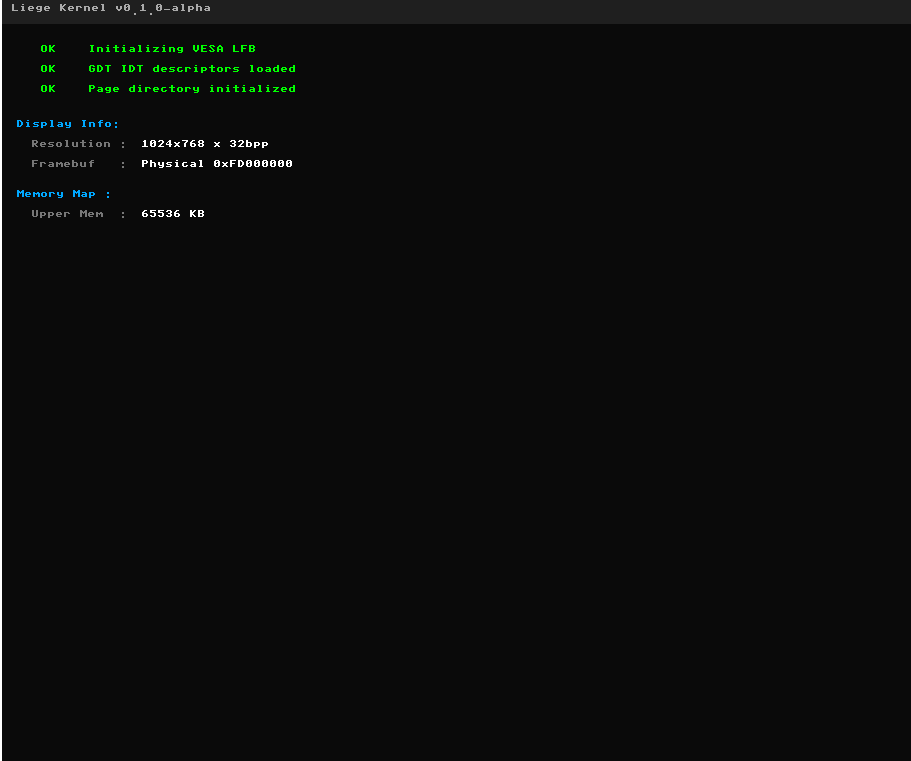
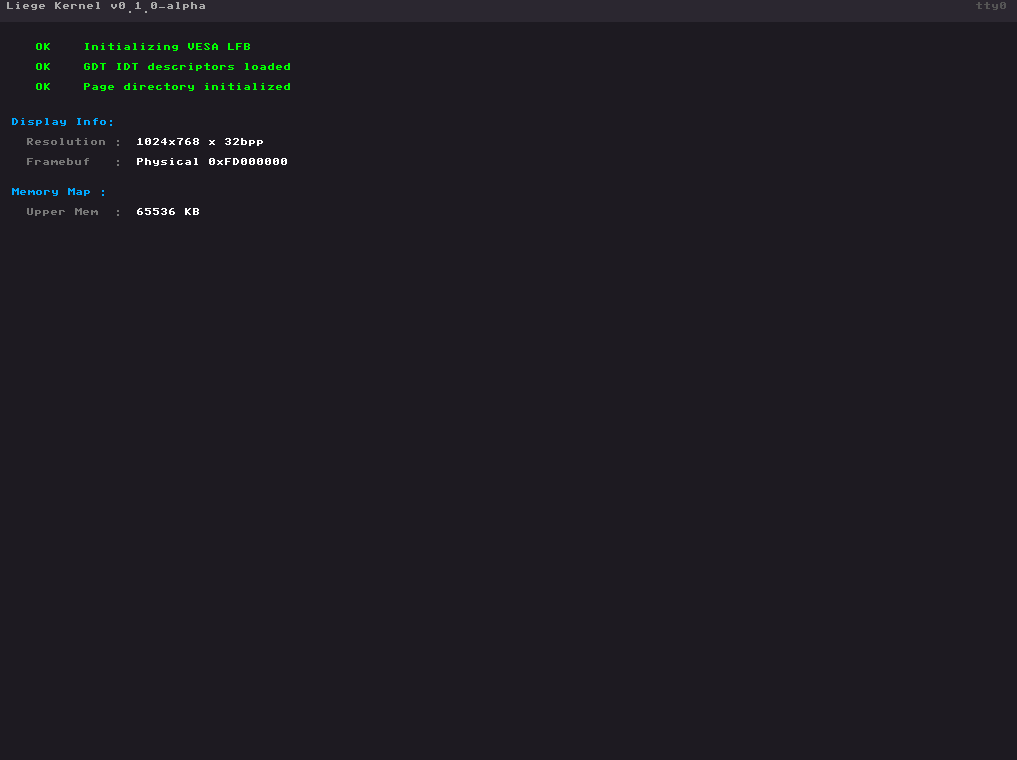
patch

diff --git a/src/kernel/kernel.c b/src/kernel/kernel.c
@@ -66,9 +66,9 @@ void kernel_main(uint32_t magic, uint32_t addr) {
     screen_pitch  = mb->framebuffer_pitch;
     back_buffer   = (uint32_t*)0x800000; 
 
-    draw_rect(0, 0, screen_width, screen_height, 0x0A0A0A); 
+    draw_rect(0, 0, screen_width, screen_height, 0x1d1a21); 
 
-    draw_rect(0, 0, screen_width, 24, 0x1F1F1F);
+    draw_rect(0, 0, screen_width, 24, 0x2b2730);
     draw_string("Liege Kernel v0.1.0-alpha", 10, 4, 0xAAAAAA);
     draw_string("tty0", screen_width - 45, 4, 0x555555);
 
